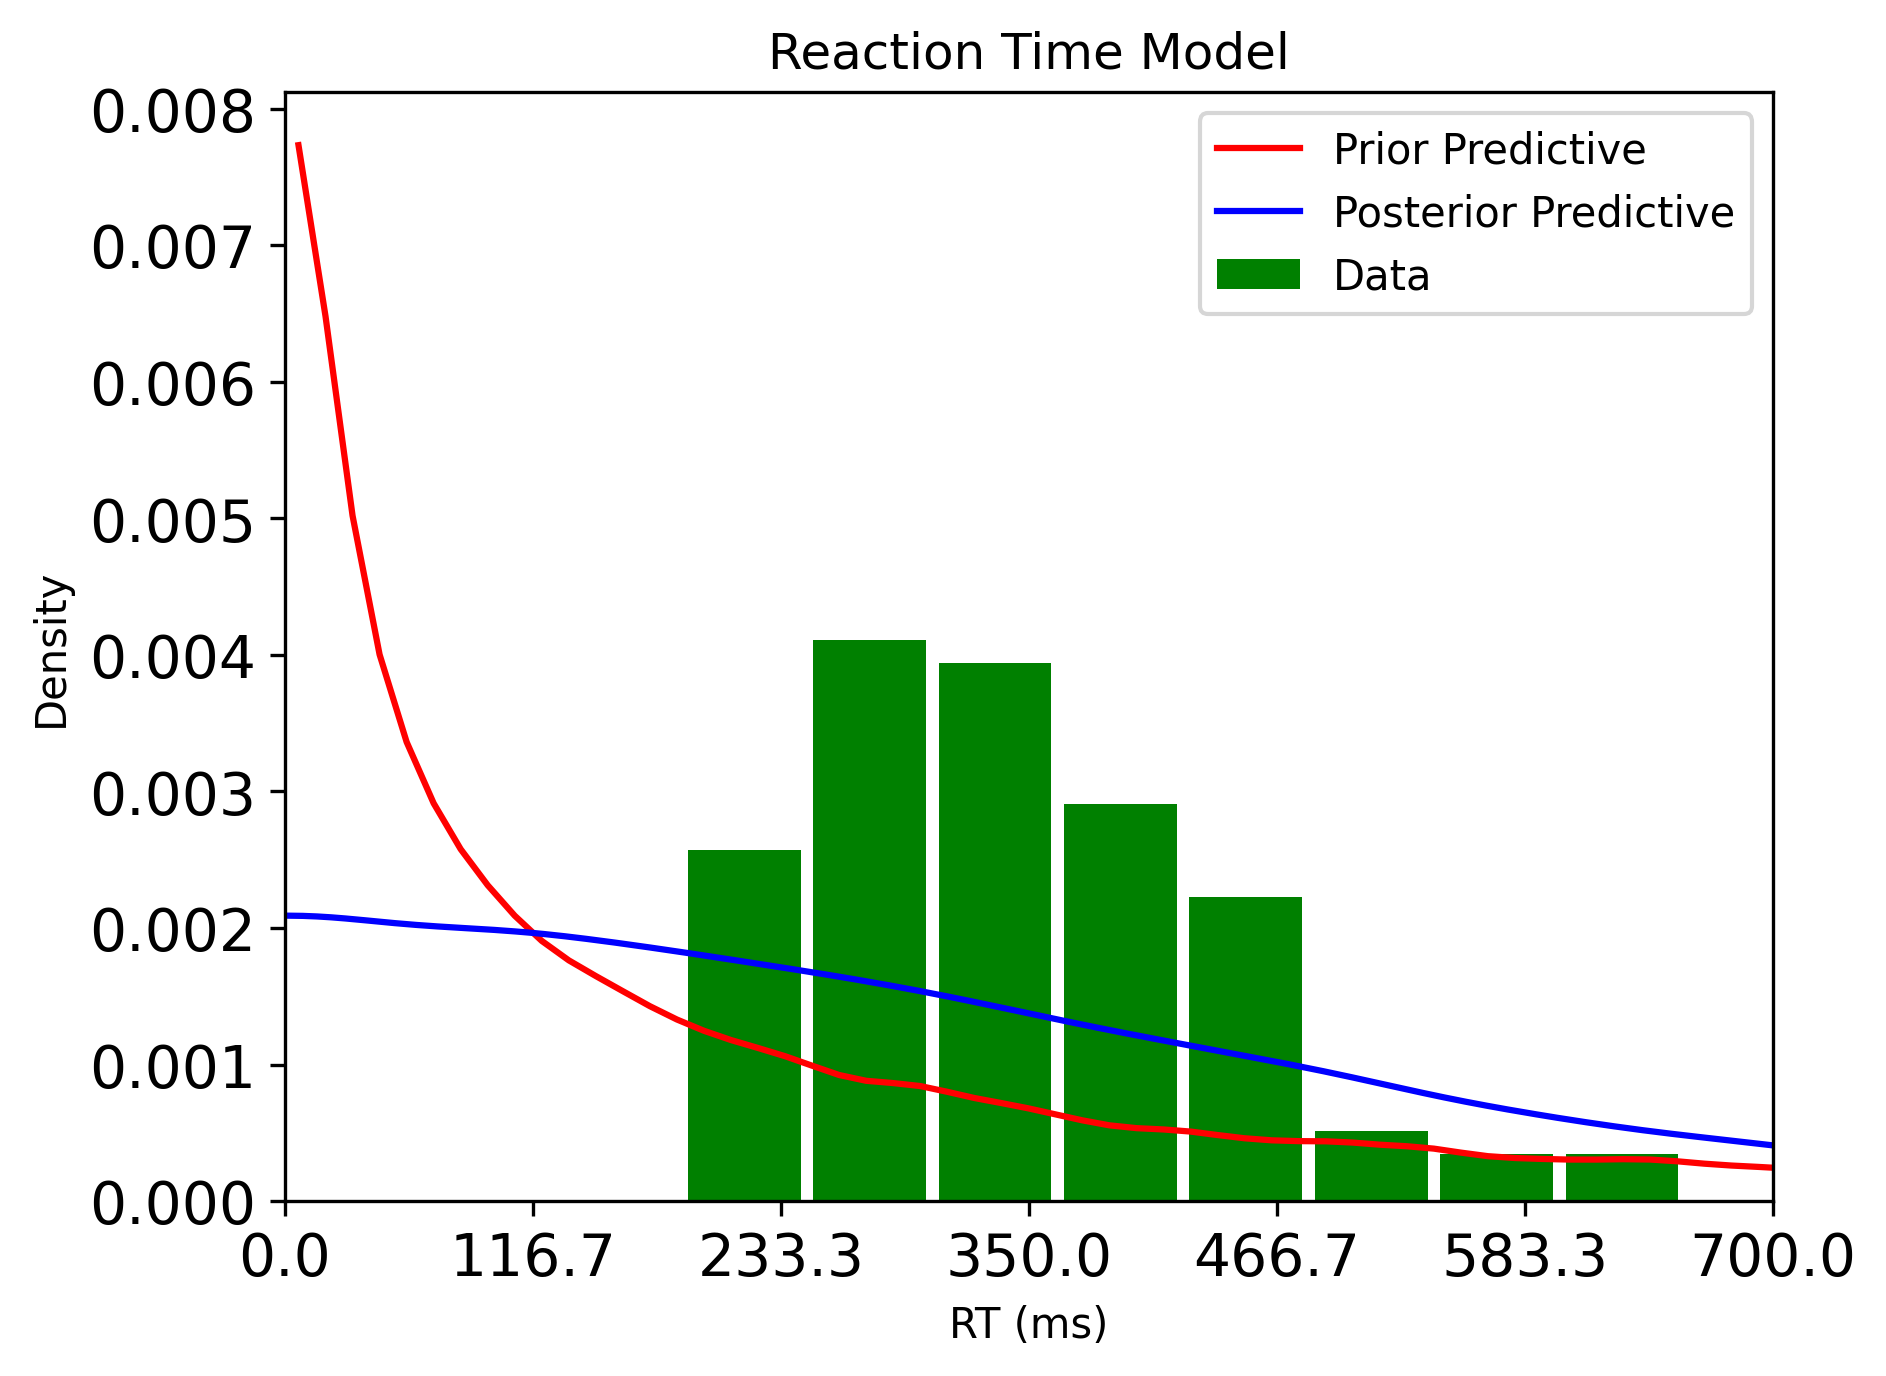
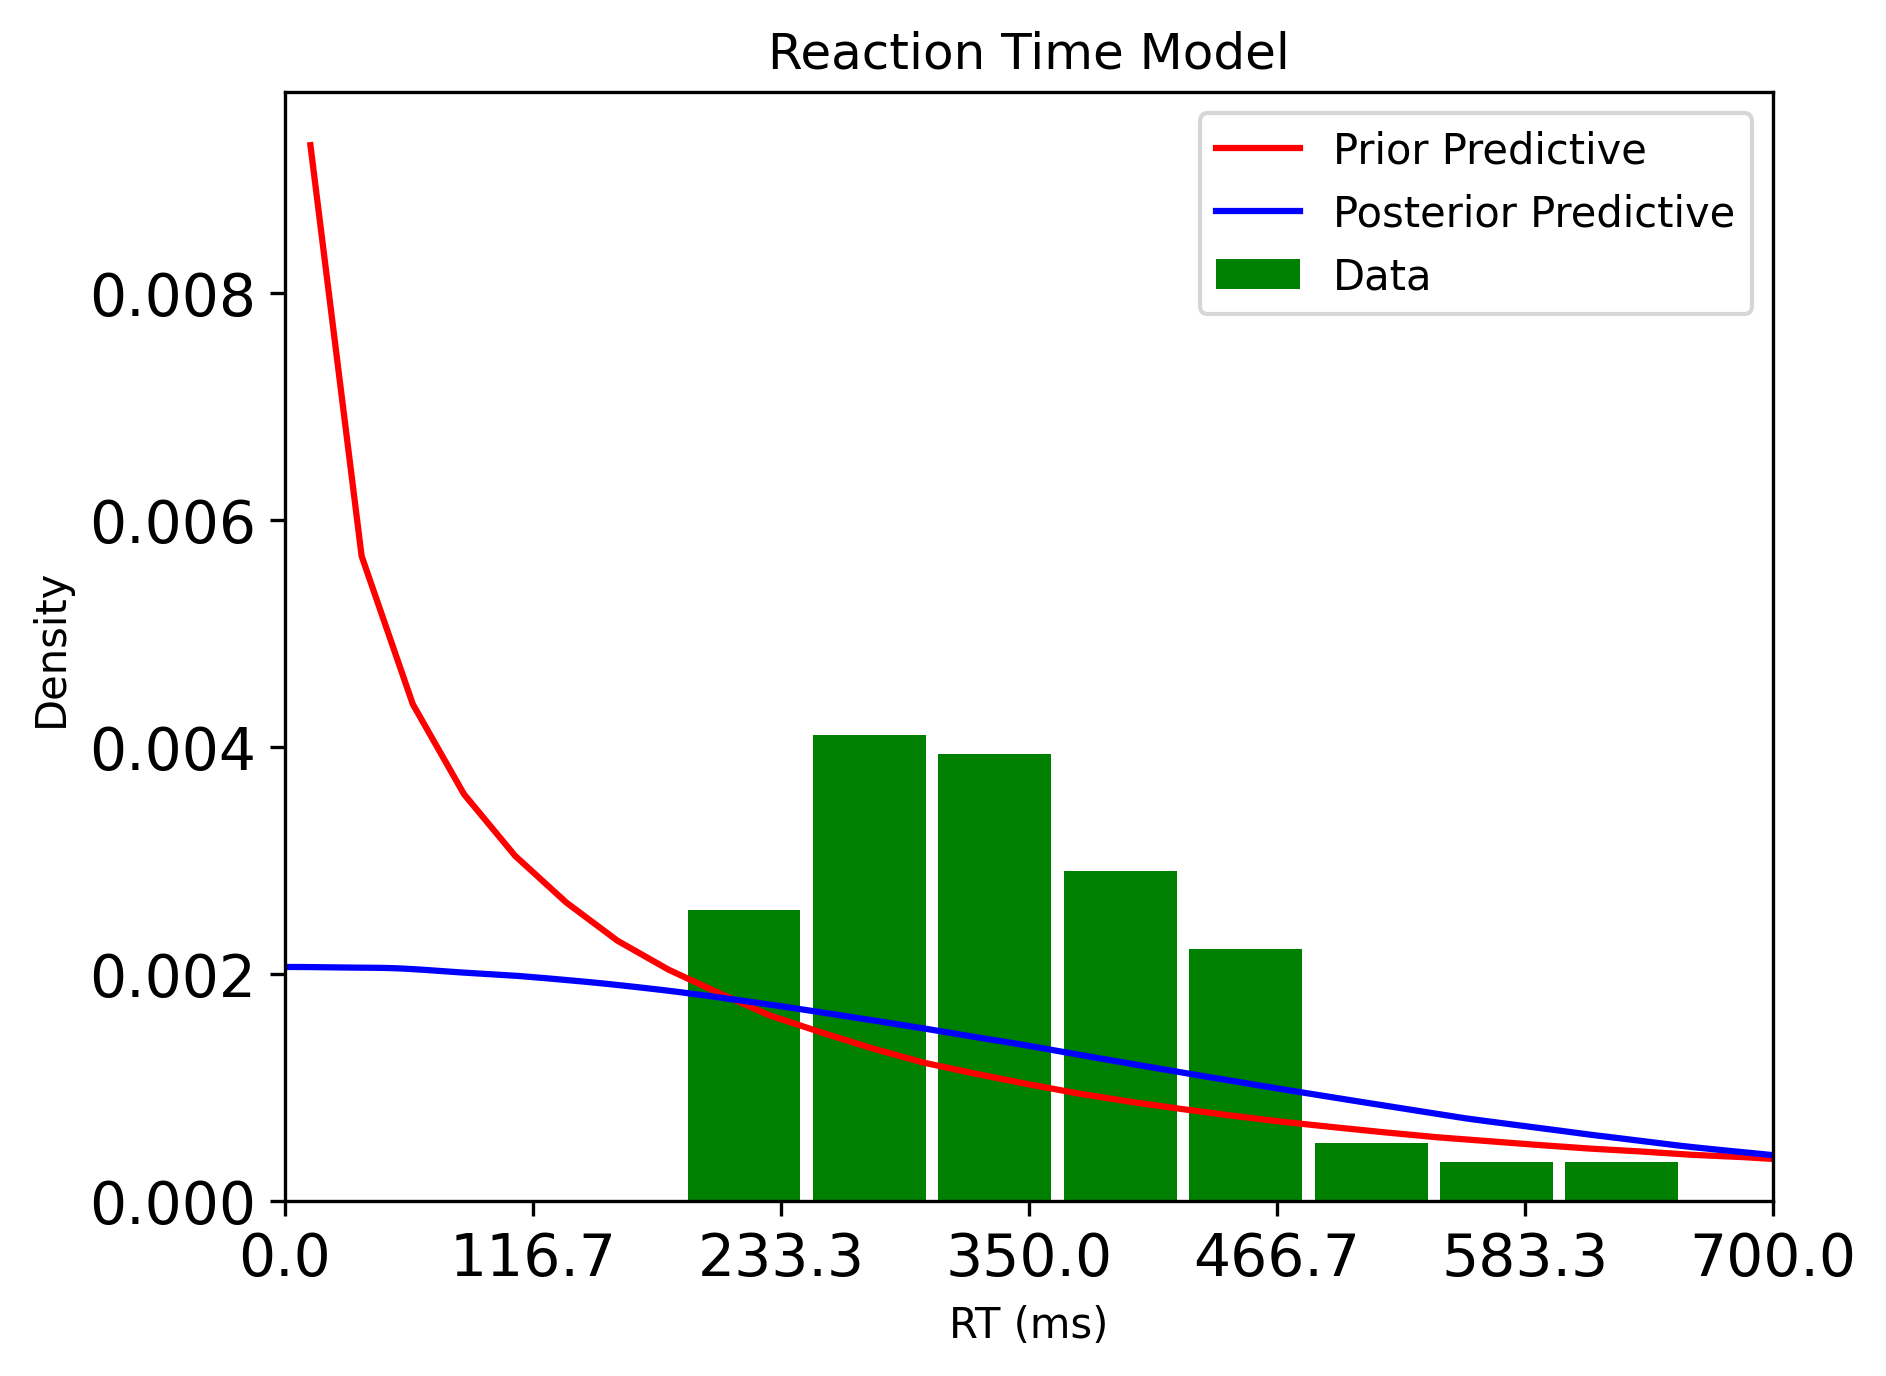
refined my parameter priors immaculately

diff --git a/HW2/crista_falk_HW2.py b/HW2/crista_falk_HW2.py
@@ -5,7 +5,6 @@ import matplotlib.pyplot as plt
 import matplotlib as mpl
 import arviz as az
 import multiprocessing
-import os
 from pathlib import Path
 
 def save_and_show(fig: mpl.figure.Figure, filename: str) -> None:
@@ -16,13 +15,16 @@ def save_and_show(fig: mpl.figure.Figure, filename: str) -> None:
     plt.show()
     plt.close(fig)
 
+# remove or add elements to test only certain parts at a time
+# exercises_to_run = ["A","B","C"]
+exercises_to_run = ["A","B"]
 
 # pymc global variables
 RETURN_INFERENCEDATA = True
 CORES = 8
 CHAINS = 4
 NSAMPLES = (
-    100  # Number of samples drawn using MCMC. Higher will make things more accurate!
+    10000  # Number of samples drawn using MCMC. Higher will make things more accurate!
 )
 
 if __name__ == "__main__":
@@ -54,58 +56,143 @@ if __name__ == "__main__":
     # - the values of 1/sigma have a relatively wide range
 
     # prior for the model parameter sigma found through Mathematica: sigma ~ Exp(1/mean_std)
-    mean_of_prior_stddev = 400
-    lambda_of_prior_stddev = 1/mean_of_prior_stddev
+    if "A" in exercises_to_run:
+        mean_of_prior_stddev = 400
+        lambda_of_prior_stddev = 1/mean_of_prior_stddev
 
-    with pm.Model() as HalfNormalModel:
-        ## define our parameter priors, assuming that std is always positive
-        std_RT = pm.Exponential("std_RT", lam=lambda_of_prior_stddev)
+        with pm.Model() as HalfNormalModel:
+            ## define our parameter priors, assuming that std is always positive
+            std_RT = pm.Exponential("std_RT", lam=lambda_of_prior_stddev)
 
-        # likelihood: this is "the model", defining probability of data given parameters.
-        RT = pm.HalfNormal(
-            "RT",  sigma=std_RT, observed=data
-        )
+            # likelihood: this is "the model", defining probability of data given parameters.
+            RT = pm.HalfNormal(
+                "RT",  sigma=std_RT, observed=data
+            )
 
-        # Generating random data from the prior i.e., "prior predictive"
-        prior_HalfNormalModel = pm.sample_prior_predictive(
-            samples=4 * NSAMPLES,
-            return_inferencedata=RETURN_INFERENCEDATA
-        )
+            # Generating random data from the prior i.e., "prior predictive"
+            prior_HalfNormalModel = pm.sample_prior_predictive(
+                samples=4 * NSAMPLES,
+                return_inferencedata=RETURN_INFERENCEDATA
+            )
 
-        # updating step
-        # simulator generates samples from the posterior.
-        trace_HalfNormalModel = pm.sample(
-            random_seed=GLOBAL_SEED,
-            draws=NSAMPLES,
-            cores=CORES,
-            chains=CHAINS,
-            return_inferencedata=RETURN_INFERENCEDATA,
-        )
-        # generate data from updated posterior, i.e., "posterior predictive"
-        posterior_HalfNormalModel = pm.sample_posterior_predictive(
-            trace_HalfNormalModel,
-            return_inferencedata=RETURN_INFERENCEDATA
-        )
+            # updating step
+            # simulator generates samples from the posterior.
+            trace_HalfNormalModel = pm.sample(
+                random_seed=GLOBAL_SEED,
+                draws=NSAMPLES,
+                cores=CORES,
+                chains=CHAINS,
+                return_inferencedata=RETURN_INFERENCEDATA,
+            )
+            # generate data from updated posterior, i.e., "posterior predictive"
+            posterior_HalfNormalModel = pm.sample_posterior_predictive(
+                trace_HalfNormalModel,
+                return_inferencedata=RETURN_INFERENCEDATA
+            )
 
-        # First Plot: RT Standard Deviation
+            # First Plot: RT Standard Deviation
+            fig, ax = plt.subplots()
+            az.plot_dist(prior_HalfNormalModel.prior.std_RT, color="red", ax=ax, label="Prior")
+            az.plot_dist(
+                trace_HalfNormalModel.posterior.std_RT, color="blue", ax=ax, label="Posterior"
+            )
+            ax.set_title("Standard Deviation Model Parameter")
+            ax.set_xlabel("RT (ms)")
+            ax.set_ylabel("Density")
+            ax.legend()
+            save_and_show(fig, "RT_stddev_halfnormal.png")
+
+            # Second Plot: RT Predictive
+            fig, ax = plt.subplots()
+            az.plot_dist(
+                prior_HalfNormalModel.prior_predictive.RT, color="red", ax=ax, label="Prior Predictive"
+            )
+            az.plot_dist(
+                posterior_HalfNormalModel.posterior_predictive.RT,
+                color="blue",
+                ax=ax,
+                label="Posterior Predictive",
+            )
+            az.plot_dist(data, color="green", ax=ax, label="Data")
+            ax.set_xlabel("RT (ms)")
+            ax.set_ylabel("Density")
+            ax.set_title("Reaction Time Model")
+            ax.set_xlim(0, 700)
+            ax.set_xticks(np.linspace(0, 700, num=7))
+            ax.legend()
+            save_and_show(fig, "RT_predictive_halfnormal.png")
+
+    # -----------------------------
+    # Exercise B: Fitting a Gamma distribution
+    # -----------------------------
+    if "B" in exercises_to_run:
+        # now the likelihood function will be modeled by a gamma distribution
+        # 2 priors needed: one for mean and one for std dev
+
+        with pm.Model() as GammaModel:
+            # prior 1: mean RT - my guess is Normal centered strongly around ~350
+            mu_RT = pm.Normal("mu_RT", mu=350, sigma=10)
+
+            # prior 2: std dev of RT - uniform with wide range
+            std_RT = pm.Uniform("std_RT", lower=50,upper=150)
+
+            # likelihood: this is "the model", defining probability of data given parameters.
+            RT = pm.Gamma(
+                "RT", mu=mu_RT, sigma=std_RT, observed=data
+            )
+
+            # Generating random data from the prior i.e., "prior predictive"
+            prior_GammaModel = pm.sample_prior_predictive(
+                samples=4 * NSAMPLES,
+                return_inferencedata=RETURN_INFERENCEDATA
+            )
+
+            # simulator generates samples from the posterior.
+            trace_GammaModel = pm.sample(
+                random_seed=GLOBAL_SEED,
+                draws=NSAMPLES,
+                cores=CORES,
+                chains=CHAINS,
+                return_inferencedata=RETURN_INFERENCEDATA,
+            )
+            # generate data from updated posterior, i.e., "posterior predictive"
+            posterior_GammaModel = pm.sample_posterior_predictive(
+                trace_GammaModel,
+                return_inferencedata=RETURN_INFERENCEDATA
+            )
+
+
+        # generate plots for mean and std dev priors and posterior
+
         fig, ax = plt.subplots()
-        az.plot_dist(prior_HalfNormalModel.prior.std_RT, color="red", ax=ax, label="Prior")
+        az.plot_dist(prior_GammaModel.prior.mu_RT, color="red", ax=ax, label="Prior")
         az.plot_dist(
-            trace_HalfNormalModel.posterior.std_RT, color="blue", ax=ax, label="Posterior"
+            trace_GammaModel.posterior.mu_RT, color="blue", ax=ax, label="Posterior"
+        )
+        ax.set_title("Mean Model Parameter")
+        ax.set_xlabel("RT (ms)")
+        ax.set_ylabel("Density")
+        ax.legend()
+        save_and_show(fig, "RT_mean_gamma.png")
+
+        fig, ax = plt.subplots()
+        az.plot_dist(prior_GammaModel.prior.std_RT, color="red", ax=ax, label="Prior")
+        az.plot_dist(
+            trace_GammaModel.posterior.std_RT, color="blue", ax=ax, label="Posterior"
         )
         ax.set_title("Standard Deviation Model Parameter")
         ax.set_xlabel("RT (ms)")
         ax.set_ylabel("Density")
         ax.legend()
-        save_and_show(fig, "RT_stddev_halfnormal.png")
+        save_and_show(fig, "RT_stddev_gamma.png")
 
-        # Second Plot: RT Predictive
+        # generate prior predictive, posterior predictive, and data historgram
         fig, ax = plt.subplots()
         az.plot_dist(
-            prior_HalfNormalModel.prior_predictive.RT, color="red", ax=ax, label="Prior Predictive"
+            prior_GammaModel.prior_predictive.RT, color="red", ax=ax, label="Prior Predictive"
         )
         az.plot_dist(
-            posterior_HalfNormalModel.posterior_predictive.RT,
+            posterior_GammaModel.posterior_predictive.RT,
             color="blue",
             ax=ax,
             label="Posterior Predictive",
@@ -114,11 +201,15 @@ if __name__ == "__main__":
         ax.set_xlabel("RT (ms)")
         ax.set_ylabel("Density")
         ax.set_title("Reaction Time Model")
-        ax.set_xlim(0, 500)
+        ax.set_xlim(0, 700)
         ax.set_xticks(np.linspace(0, 700, num=7))
         ax.legend()
-        save_and_show(fig, "RT_predictive_halfnormal.png")
+        save_and_show(fig, "RT_predictive_gamma.png")
 
-        # -----------------------------
-        # Exercise B: Fitting a Gamma distribution
-        # -----------------------------
+    # -----------------------------
+    # Exercise C: Model Comparison
+    # -----------------------------
+    if "A" and "B" and "C" in exercises_to_run:
+        # compute a Bayes factor
+        BF = az.compare({"GammaModel": trace_GammaModel, "HalfNormalModel": trace_HalfNormalModel})
+        print("Bayes Factor:", BF)

diff --git a/HW2/README.md b/HW2/README.md
@@ -6,6 +6,7 @@
 ```
 conda create --name pymc_518 python=3.10 -y
 conda activate pymc_518
+conda install m2w64-toolchain
 pip install --no-cache-dir "pymc==5.18.2" 
 pip install seaborn
 ```
